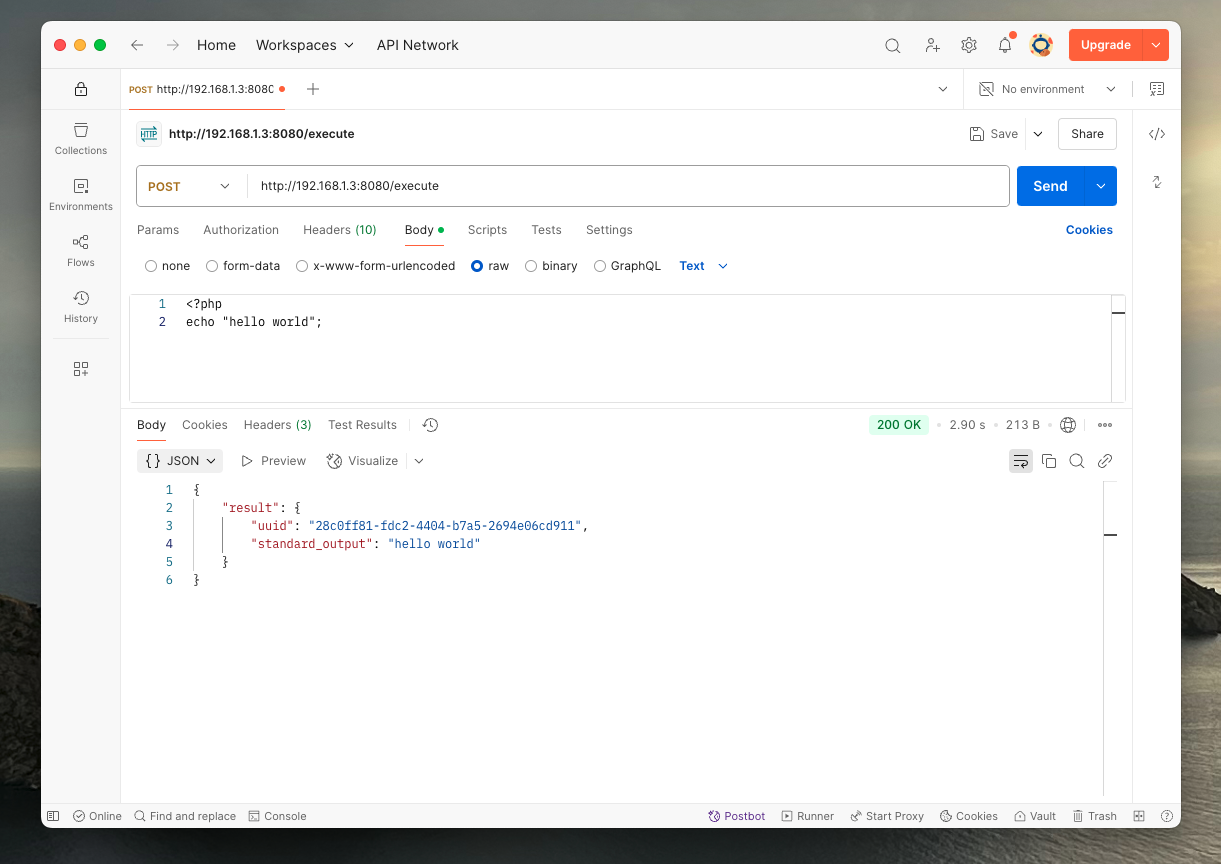
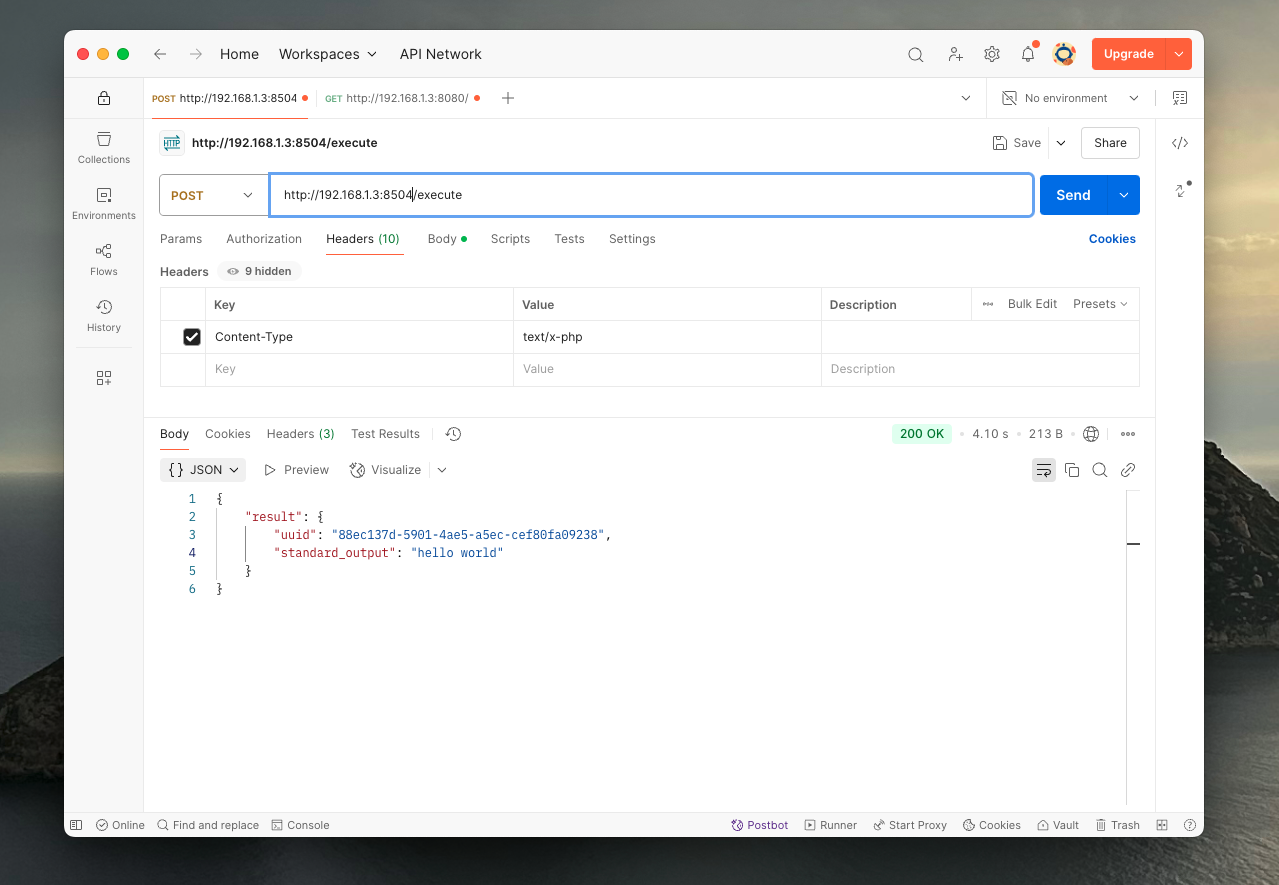
fix: update server port from 8080 to 8504 in main function

diff --git a/main.go b/main.go
@@ -114,5 +114,5 @@ func main() {
 		})
 	})
 
-	router.Run(":8080")
+	router.Run(":8504")
 }

diff --git a/README.md b/README.md
@@ -12,7 +12,7 @@ The API is very simple as it only provides a basic banner in the root `/`, a lis
 curl -X POST \
     -H "Content-Type: text/x-php" \
     -d "<?php echo 'hello world';" \
-    http://192.168.1.3:8080/execute
+    http://192.168.1.3:8504/execute
 ```
 
 When posting a source code to the endpoint, it will check if the `Content-Type` _(MIME Type)_ is supported. If the language is supported, it'll create a temporary folder on the host, a container for the language with the temporary folder that includes the default source file name and the execution shell script. The shell scripts can be found in the [config/runtime](config/runtime). 
